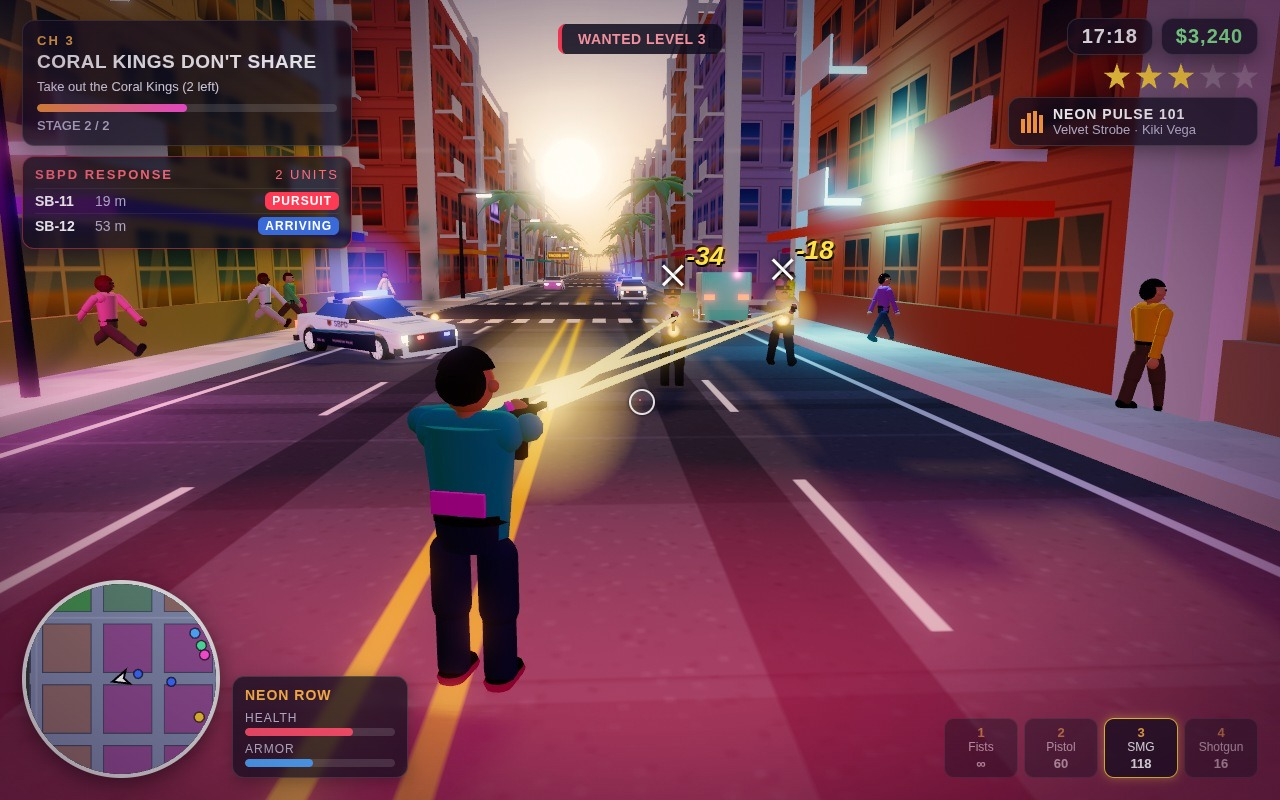
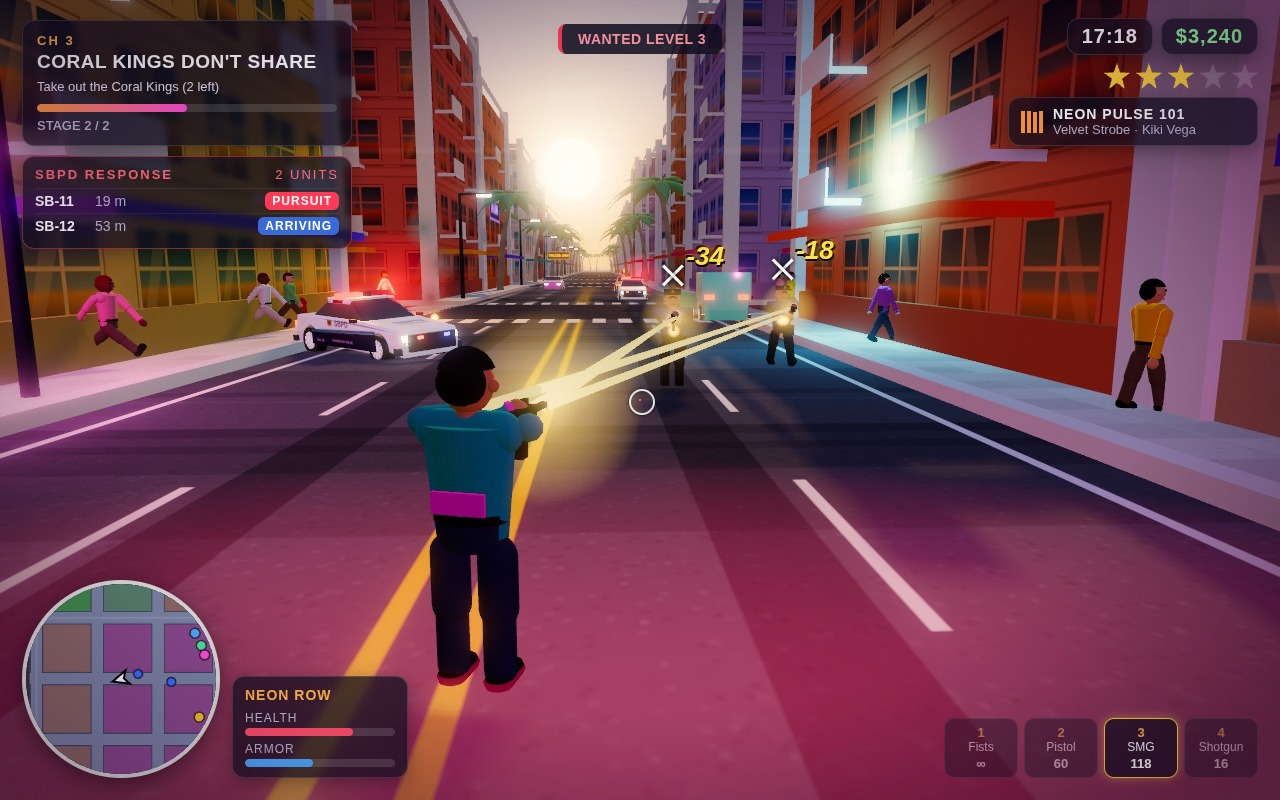
README: golden-hour visuals, post-processing, new car models; final screenshots

Changed region(s): [[0.2188, 0.2812, 0.375, 0.4062], [0.0625, 0.5312, 0.25, 0.5938], [0.4688, 0.3125, 0.5312, 0.375]]

diff --git a/README.md b/README.md
@@ -6,10 +6,12 @@
 
 SOLVANE BAY is an original open-world crime game for desktop Chrome (keyboard + mouse): a sun-soaked low-poly coastal city you explore on foot and by car, as newcomer Nico Varela working up from Dex's Club Velvet to a marina heist.
 
-- Procedural three.js city: beach strip and sea, palm boulevards, downtown towers, marina, neon nightlife district, docks, parks; sunset sky, long shadows, day/night clock, lit windows, neon signs, billboards
+- Procedural three.js city at golden hour: azure-to-peach sky dome with the sun setting over the sea, pastel art-deco stucco blocks (balconies, awnings, cornices, rooftop AC units and water tanks), glass towers downtown, curved-trunk palm boulevards, bus stops, benches, hydrants, our own billboard ads, beach, marina, neon nightlife district, docks, parks; day/night clock, lit windows
+- Hand-written post-processing: HDR render target, bright-pass bloom pyramid, ACES filmic tone mapping, warm colour grade, vignette and a speed-driven chromatic fringe (Settings > Visual quality, with a plain-render fallback)
+- Sleek extruded car models with clearcoat paint, tinted glass, spoked rims and glowing head/tail lights: VELOCE GT sports car, SBPD cruisers in a navy/teal livery with red/blue light bars, taxi, van, SUV, compact, convertible
 - Third-person on foot (WASD, aim, SMG/pistol/shotgun/fists) and arcade driving with drift, damage, smoke, explosions, skid marks, chase camera with speed FOV
 - Steal any car; lane-following traffic with signals; pedestrians that flee gunfire
-- Wanted level 0-5: SBPD patrol cars that pursue and ram, roadblocks, officers on foot, a police helicopter, Busted / Wasted respawns
+- Wanted level 0-5: SBPD patrol cars that pursue and ram, roadblocks, officers on foot, a police helicopter, CUFFED / FLATLINED respawns
 - Six-chapter story with portraits and dialogue (steal, deliver, collect, shoot-out, car chase, escape, heist), plus taxi fares, a street race, 16 hidden packages
 - Respect levels unlock weapons at the Calder Arms shop; Glow Coat Respray clears heat; health/armor pickups
 - Full HUD (mission card, SBPD response list, minimap, radio card, speedometer), city map (M), pause menu, save/load, three synthesized radio stations
